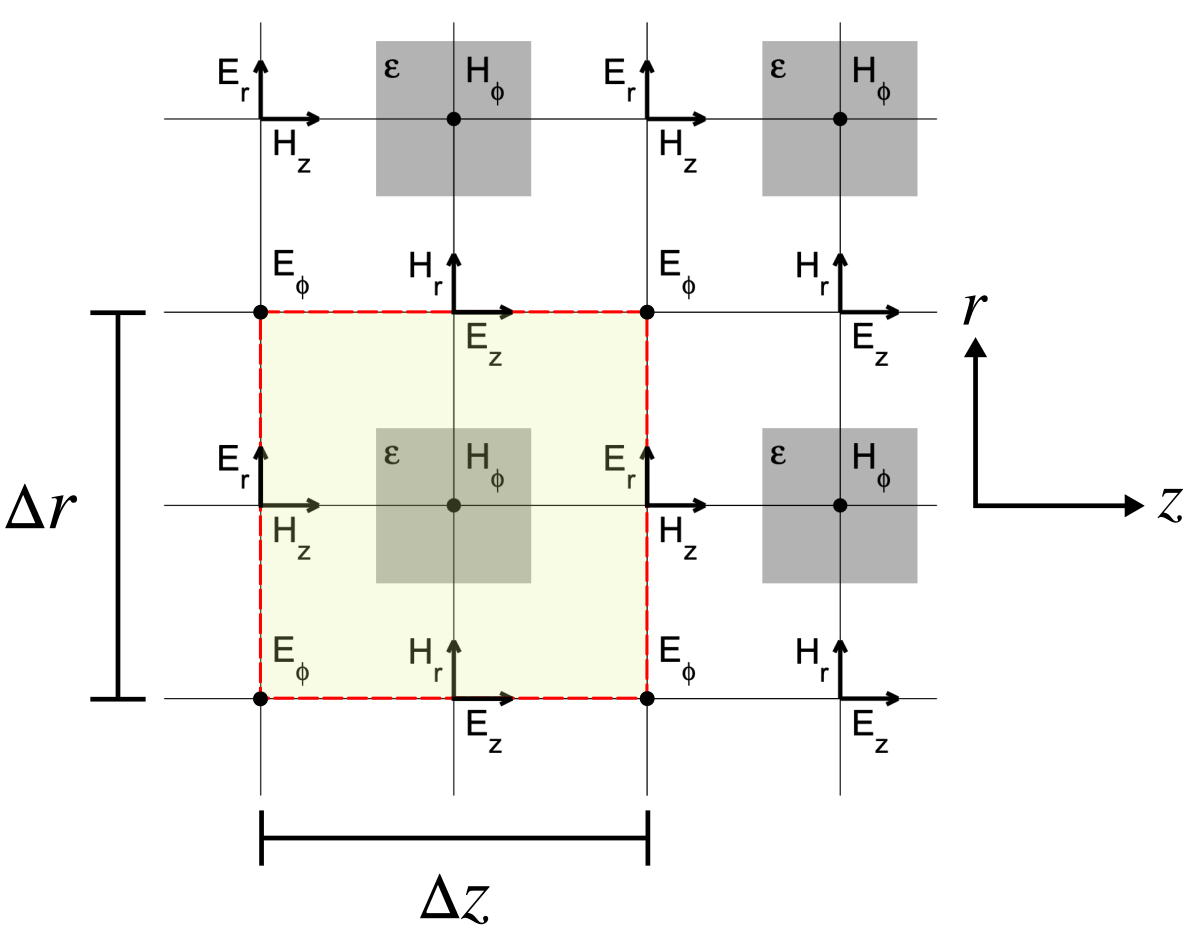
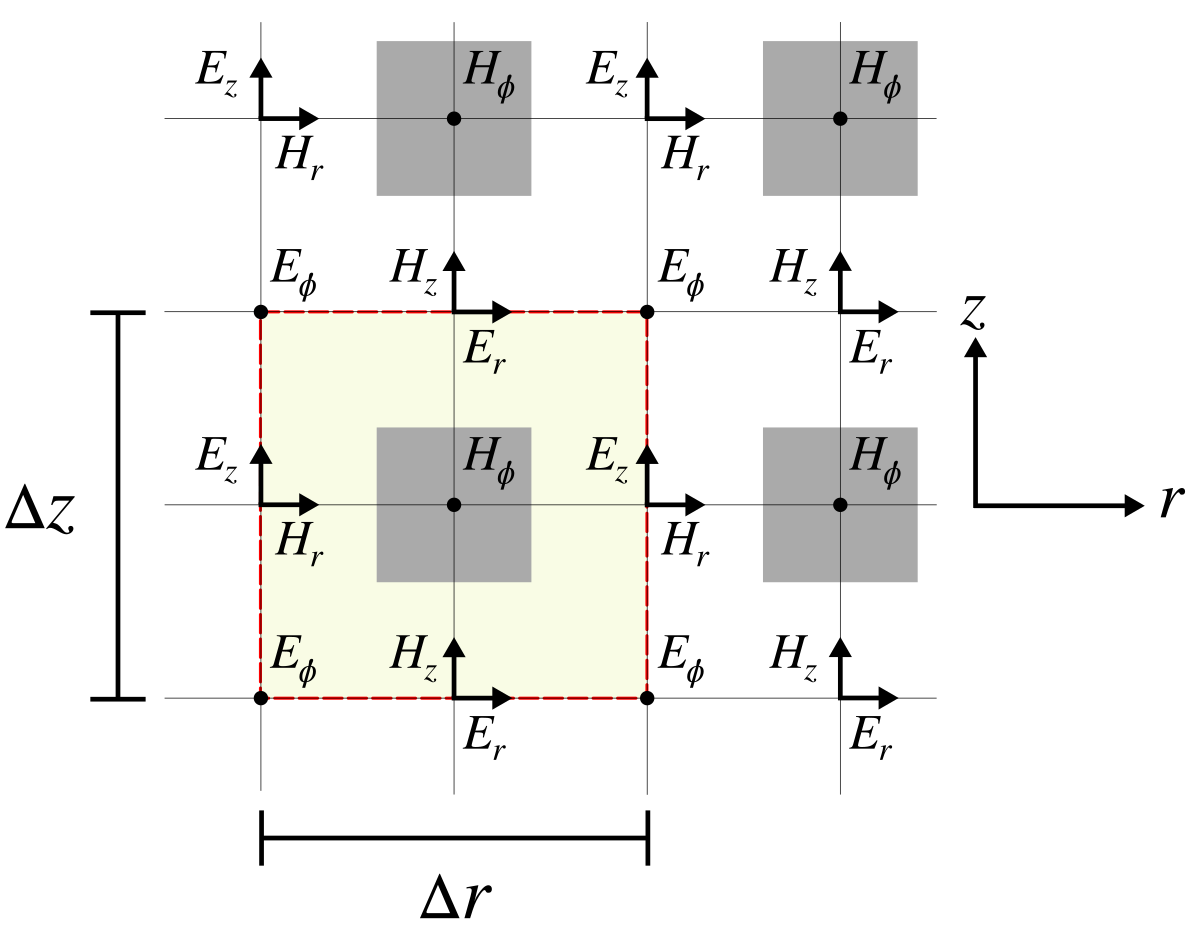
swap rz coordinate axes in figure showing Yee grid for consistency with plot2D

diff --git a/doc/docs/Exploiting_Symmetry.md b/doc/docs/Exploiting_Symmetry.md
@@ -51,17 +51,17 @@ In a cylindrical simulation, the fields can be written in the form of a function
 
 ![](images/Yee_grid_cylindrical.png#center)
 
-The fields at $r = 0$ must obey certain symmetries determined by the value of $m$:
+The ($E_\phi$, $E_z$, $H_r$) fields at $r = 0$ must obey certain symmetries determined by the value of $m$:
 
-* $m = 0$: fields are rotation-invariant. At $r = 0$, this means that $E_z$ and $H_z$ can be nonzero, but all the other field components must be zero at the origin (since they are otherwise not rotation-invariant).
-* $m = \pm 1$: fields flip sign when rotated by $\phi = \pi$ radians. At $r = 0$, this means that $E_\phi, E_r, H_z, H_r$ can be nonzero, but the $E_z, H_z$ fields must be zero.
+* $m = 0$: fields are rotation-invariant. At $r = 0$, this means that $E_z$ can be nonzero, but $E_\phi$ and $H_r$ must be zero since they are otherwise not rotation-invariant.
+* $m = \pm 1$: fields flip sign when rotated by $\phi = \pi$ radians. At $r = 0$, this means that $E_\phi$ and $ H_r$ can be nonzero but $E_z$ must be zero.
 * $|m| > 1$: all fields go to zero at $r = 0$.
 
 Integrals in cylindrical coordinates involve a $2 \pi r \, dr$ factor, which is automatically included by Meep when computing integrated quantities (Poynting flux, energy, etcetera).
 
-A zero-thickness source in the $r$ direction is treated by Meep as a Dirac $\delta(r)$ function. In some contexts you might prefer $\delta(r)/r$ or $\delta(r)/2\pi r$ so that the radial integral is 1; these additional factors can be included by scaling the source amplitude (or by scaling the resulting fields/powers in postprocessing).
+A zero-thickness source in the $r$ direction is treated by Meep as a Dirac $\delta(r)$ function. In some contexts you might prefer $\delta(r)/r$ or $\delta(r)/2\pi r$ so that the radial integral is 1; these additional factors can be included by scaling the source amplitude or by scaling the resulting fields/powers in postprocessing.
 
-The [perfectly matched layer (PML)](Perfectly_Matched_layer.md) in the $r$ direction is a *quasi* PML rather than a true PML. Reflections from the quasi PML will generally tend to be larger than a true PML. The thickness of the quasi PML may therefore need to be increased to compensate for these larger reflections. However, the quasi PML approaches a true PML as the outer radius of the computational cell increases. (This is because the implicit curvature of the PML region decreases with radius and approaches the Cartesian case of the quasi PML.) For additional information, see Section 4.2 of [Computer Physics Communications, Vol. 181, pp. 687-702 (2010)](http://ab-initio.mit.edu/~oskooi/papers/Oskooi10.pdf).
+The [perfectly matched layer (PML)](Perfectly_Matched_Layer.md) in the $r$ direction is a *quasi* PML rather than a true PML. At the same thickness, reflections from the quasi PML will generally tend to be larger than a true PML. The thickness of the quasi PML may therefore need to be increased to compensate for these larger reflections. The quasi PML approaches a true PML as the outer radius of the computational cell increases. (This is because the implicit curvature of the PML region decreases with radius and approaches the Cartesian case of the quasi PML.) For additional information, see Section 4.2 of [Computer Physics Communications, Vol. 181, pp. 687-702 (2010)](http://ab-initio.mit.edu/~oskooi/papers/Oskooi10.pdf).
 
 For examples, see [Tutorial/Cylindrical Coordinates](Python_Tutorials/Cylindrical_Coordinates.md).
 

diff --git a/doc/docs/Python_Tutorials/Local_Density_of_States.md b/doc/docs/Python_Tutorials/Local_Density_of_States.md
@@ -327,7 +327,7 @@ A more efficient approach to computing the total emitted power from the dipole i
 
 To demonstrate this feature of the LDOS, we will compute the extraction efficiency of an LED-like structure consisting of a point dipole embedded within a dielectric layer ($n$=2.4 and thickness 0.7 $\lambda/n$) surrounded by vacuum and positioned above an infinite ground plane of a lossless metal. We will compute the extraction efficiency (at a wavelength $\lambda$ = 1.0 μm for a dipole with polarization parallel to the ground plane) as a function of the height of the dipole source above the ground plane using two different coordinate systems — 3D Cartesian and cylindrical — and demonstrate that the results are equivalent (apart from discretization error). The key difference is that simulation using cylindrical (2D) coordinates is significantly faster and more memory efficient than 3D.
 
-The simulation setup is shown in the figures below for 3D Cartesian (cross section in $xz$) and cylindrical coordinates. (Note that this single-dipole calculation differs from the somewhat related flux calculation in [Tutorials/Custom Source/Stochastic Dipole Emission in Light Emitting Diodes](Custom_Source.md#stochastic-dipole-emission-in-light-emitting-diodes) which involved modeling a *collection* of dipoles.) In this example, the point-dipole source is positioned at $r=0$ which involves a single simulation. Nonaxisymmetric dipoles positioned at $r>0$, however, are more challenging because they involve multiple simulations. For a demonstration, see [Cylindrical Coordinates/Nonaxisymmetric Dipole Sources](Cylindrical_Cordinates.md#nonaxisymmetric-dipole-sources).
+The simulation setup is shown in the figures below for 3D Cartesian (cross section in $xz$) and cylindrical coordinates. (Note that this single-dipole calculation differs from the somewhat related flux calculation in [Tutorials/Custom Source/Stochastic Dipole Emission in Light Emitting Diodes](Custom_Source.md#stochastic-dipole-emission-in-light-emitting-diodes) which involved modeling a *collection* of dipoles.) In this example, the point-dipole source is positioned at $r=0$ which involves a single simulation. Nonaxisymmetric dipoles positioned at $r>0$, however, are more challenging because they involve multiple simulations. For a demonstration, see [Cylindrical Coordinates/Nonaxisymmetric Dipole Sources](Cylindrical_Coordinates.md#nonaxisymmetric-dipole-sources).
 
 ![](../images/dipole_extraction_eff_3D.png#center)
 

diff --git a/README.md b/README.md
@@ -12,7 +12,7 @@
 
 -   **Free and open-source software** under the [GNU GPL](https://en.wikipedia.org/wiki/GNU_General_Public_License).
 -   Complete **scriptability** via [Python](https://meep.readthedocs.io/en/latest/Python_Tutorials/Basics/), [Scheme](https://meep.readthedocs.io/en/latest/Scheme_Tutorials/Basics), or [C++](https://meep.readthedocs.io/en/master/C++_Tutorial/) APIs.
--   Simulation in **1d, 2d, 3d**, and **cylindrical** coordinates.
+-   Simulation in **1d, 2d, 3d**, and **[cylindrical](https://meep.readthedocs.io/en/latest/Exploiting_Symmetry/#cylindrical-symmetry)** coordinates.
 -   Distributed memory [parallelism](https://meep.readthedocs.io/en/latest/Parallel_Meep) on any system supporting [MPI](https://en.wikipedia.org/wiki/MPI).
 -   Portable to any Unix-like operating system such as [Linux](https://en.wikipedia.org/wiki/Linux), [macOS](https://en.wikipedia.org/wiki/macOS), and [FreeBSD](https://en.wikipedia.org/wiki/FreeBSD).
 -   **Precompiled binary packages** of official releases via [Conda](https://meep.readthedocs.io/en/latest/Installation/#conda-packages).

diff --git a/doc/docs/index.md b/doc/docs/index.md
@@ -8,7 +8,7 @@
 
 -   **Free and open-source software** under the [GNU GPL](https://en.wikipedia.org/wiki/GNU_General_Public_License).
 -   Complete **scriptability** via [Python](Python_Tutorials/Basics), [Scheme](Scheme_Tutorials/Basics), or [C++](C++_Tutorial) APIs.
--   Simulation in **1d, 2d, 3d**, and [cylindrical](Exploiting_Symmetry.md#cylindrical-symmetry) coordinates.
+-   Simulation in **1d, 2d, 3d**, and **[cylindrical](Exploiting_Symmetry.md#cylindrical-symmetry)** coordinates.
 -   Distributed memory [parallelism](Parallel_Meep) on any system supporting [MPI](https://en.wikipedia.org/wiki/MPI).
 -   Portable to any Unix-like operating system such as [Linux](https://en.wikipedia.org/wiki/Linux), [macOS](https://en.wikipedia.org/wiki/macOS), and [FreeBSD](https://en.wikipedia.org/wiki/FreeBSD).
 -   **Precompiled binary packages** of official releases via [Conda](Installation.md#conda-packages).
